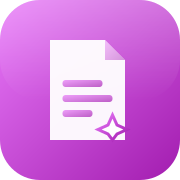
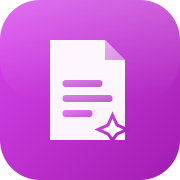
Update 2026-05-25 12:47

diff --git a/client/src/contexts/ThemeContext.tsx b/client/src/contexts/ThemeContext.tsx
@@ -14,8 +14,6 @@ export interface ThemeDefinition {
   previewColors: string[];
 }
 
-const APPLYR_GRADIENT = 'linear-gradient(135deg, #e879f9 0%, #a21caf 100%)';
-
 export const THEMES: ThemeDefinition[] = [
   {
     name: 'Default',
@@ -26,9 +24,9 @@ export const THEMES: ThemeDefinition[] = [
     border: 'rgba(0,0,0,0.09)',
     text: '#09090b',
     text2: '#71717a',
-    accent: '#a855f7',
-    gradient: APPLYR_GRADIENT,
-    previewColors: ['#e8eaed', '#d1d5db', '#a855f7'],
+    accent: '#c026d3',
+    gradient: 'linear-gradient(135deg, #d946ef 0%, #a21caf 100%)',
+    previewColors: ['#e8eaed', '#d1d5db', '#c026d3'],
   },
   {
     name: 'Dark',
@@ -36,12 +34,12 @@ export const THEMES: ThemeDefinition[] = [
     bg: '#0a0a0f',
     surface: '#111118',
     surface2: '#1a1a28',
-    border: 'rgba(168,85,247,0.18)',
+    border: 'rgba(192,38,211,0.18)',
     text: '#f0f0ff',
     text2: '#a1a1aa',
-    accent: '#c084fc',
-    gradient: APPLYR_GRADIENT,
-    previewColors: ['#111118', '#1a1a28', '#c084fc'],
+    accent: '#c026d3',
+    gradient: 'linear-gradient(135deg, #d946ef 0%, #a21caf 100%)',
+    previewColors: ['#111118', '#1a1a28', '#c026d3'],
   },
   {
     name: 'Midnight',

diff --git a/client/index.html b/client/index.html
@@ -10,7 +10,7 @@
     <meta name="apple-mobile-web-app-capable" content="yes" />
     <meta name="apple-mobile-web-app-status-bar-style" content="black-translucent" />
     <meta name="apple-mobile-web-app-title" content="Applyr" />
-    <meta name="theme-color" content="#a855f7" />
+    <meta name="theme-color" content="#c026d3" />
     <link rel="preconnect" href="https://fonts.googleapis.com" />
     <link rel="preconnect" href="https://fonts.gstatic.com" crossorigin />
     <link href="https://fonts.googleapis.com/css2?family=Inter:wght@400;500;600;700;800;900&display=swap" rel="stylesheet" />

diff --git a/client/src/index.css b/client/src/index.css
@@ -5,7 +5,7 @@
 /* Applyr keeps the app brand static across themes. Individual themes still
    update --theme-accent for active states and swatches. */
 :root {
-  --brand-gradient: linear-gradient(135deg, #e879f9 0%, #a21caf 100%);
+  --brand-gradient: linear-gradient(135deg, #d946ef 0%, #a21caf 100%);
 }
 
 *, *::before, *::after {

diff --git a/README.md b/README.md
@@ -26,14 +26,15 @@
 - **Multiple themes** — light and dark built-in themes
 - **OpenAI-compatible** — works with GPT-4o, Ollama, Azure OpenAI, and any compatible API
 
-## Requirements
+## Getting started
 
-- Docker and Docker Compose
-- An OpenAI-compatible API key (configured in Settings after launch)
+Pick whichever install path matches your setup. All paths land on [http://localhost:3090](http://localhost:3090); open **Settings → AI Config** to add an OpenAI-compatible API key once it's running.
 
-## Docker setup
+### 1. Docker (Docker Desktop, NAS, or any Docker server)
 
-### Quick start
+Works on Synology, Unraid, TrueNAS, QNAP, Proxmox, or a plain Docker host. Requires Docker (and ideally Docker Compose).
+
+**One-liner:**
 
 ```bash
 docker run -d \
@@ -45,9 +46,7 @@ docker run -d \
   larsmikki/applyr:latest
 ```
 
-Then open [http://localhost:3090](http://localhost:3090) and go to **Settings → AI Config** to enter your API key.
-
-### Docker Compose (recommended)
+**Docker Compose (recommended):**
 
 ```yaml
 services:
@@ -66,13 +65,82 @@ volumes:
   applyr-output:
 ```
 
-The `output` volume is where generated cover letters and documents are saved. You can bind-mount it to a folder on your host instead:
+The `output` volume is where generated cover letters and documents are saved. Bind-mount it to a host folder if you'd rather see the files directly:
 
 ```yaml
 volumes:
   - applyr-data:/app/data
-  - /home/user/Documents/Applyr:/app/output
+  - /volume1/docs/Applyr:/app/output   # NAS example
 ```
+
+On Docker Desktop, the app will be reachable at [http://localhost:3090](http://localhost:3090). On a NAS, swap `localhost` for the NAS IP.
+
+### 2. Local install on Windows
+
+Requires [Git for Windows](https://git-scm.com/download/win) and [Node.js 20+](https://nodejs.org/) (LTS). PowerShell or Windows Terminal works.
+
+```powershell
+git clone https://github.com/larsmikki/applyr.git
+cd applyr
+npm run setup
+npm run dev
+```
+
+Open [http://localhost:3090](http://localhost:3090). Data is written to `%USERPROFILE%\.applyr\data\` in production builds and to `.\data\` in dev.
+
+For a production build:
+
+```powershell
+npm run build
+npm start
+```
+
+### 3. Local install on macOS
+
+Requires [Homebrew](https://brew.sh/) (optional but easiest) and Node.js 20+.
+
+```bash
+brew install node git           # skip if already installed
+git clone https://github.com/larsmikki/applyr.git
+cd applyr
+npm run setup
+npm run dev
+```
+
+Open [http://localhost:3090](http://localhost:3090). For a production build:
+
+```bash
+npm run build
+npm start
+```
+
+Data lives at `~/.applyr/data/` in production and `./data/` in dev.
+
+### 4. Local install on Linux
+
+Requires Node.js 20+ and Git. On Debian/Ubuntu:
+
+```bash
+# Node 20 via NodeSource
+curl -fsSL https://deb.nodesource.com/setup_20.x | sudo -E bash -
+sudo apt-get install -y nodejs git
+
+git clone https://github.com/larsmikki/applyr.git
+cd applyr
+npm run setup
+npm run dev
+```
+
+On Fedora/RHEL use `dnf install nodejs git`; on Arch use `pacman -S nodejs npm git`.
+
+Open [http://localhost:3090](http://localhost:3090). For a production build:
+
+```bash
+npm run build
+npm start
+```
+
+To run as a background service, drop a unit file in `/etc/systemd/system/applyr.service` pointing `ExecStart` at `npm start` from the repo root.
 
 ## Configuration
 
